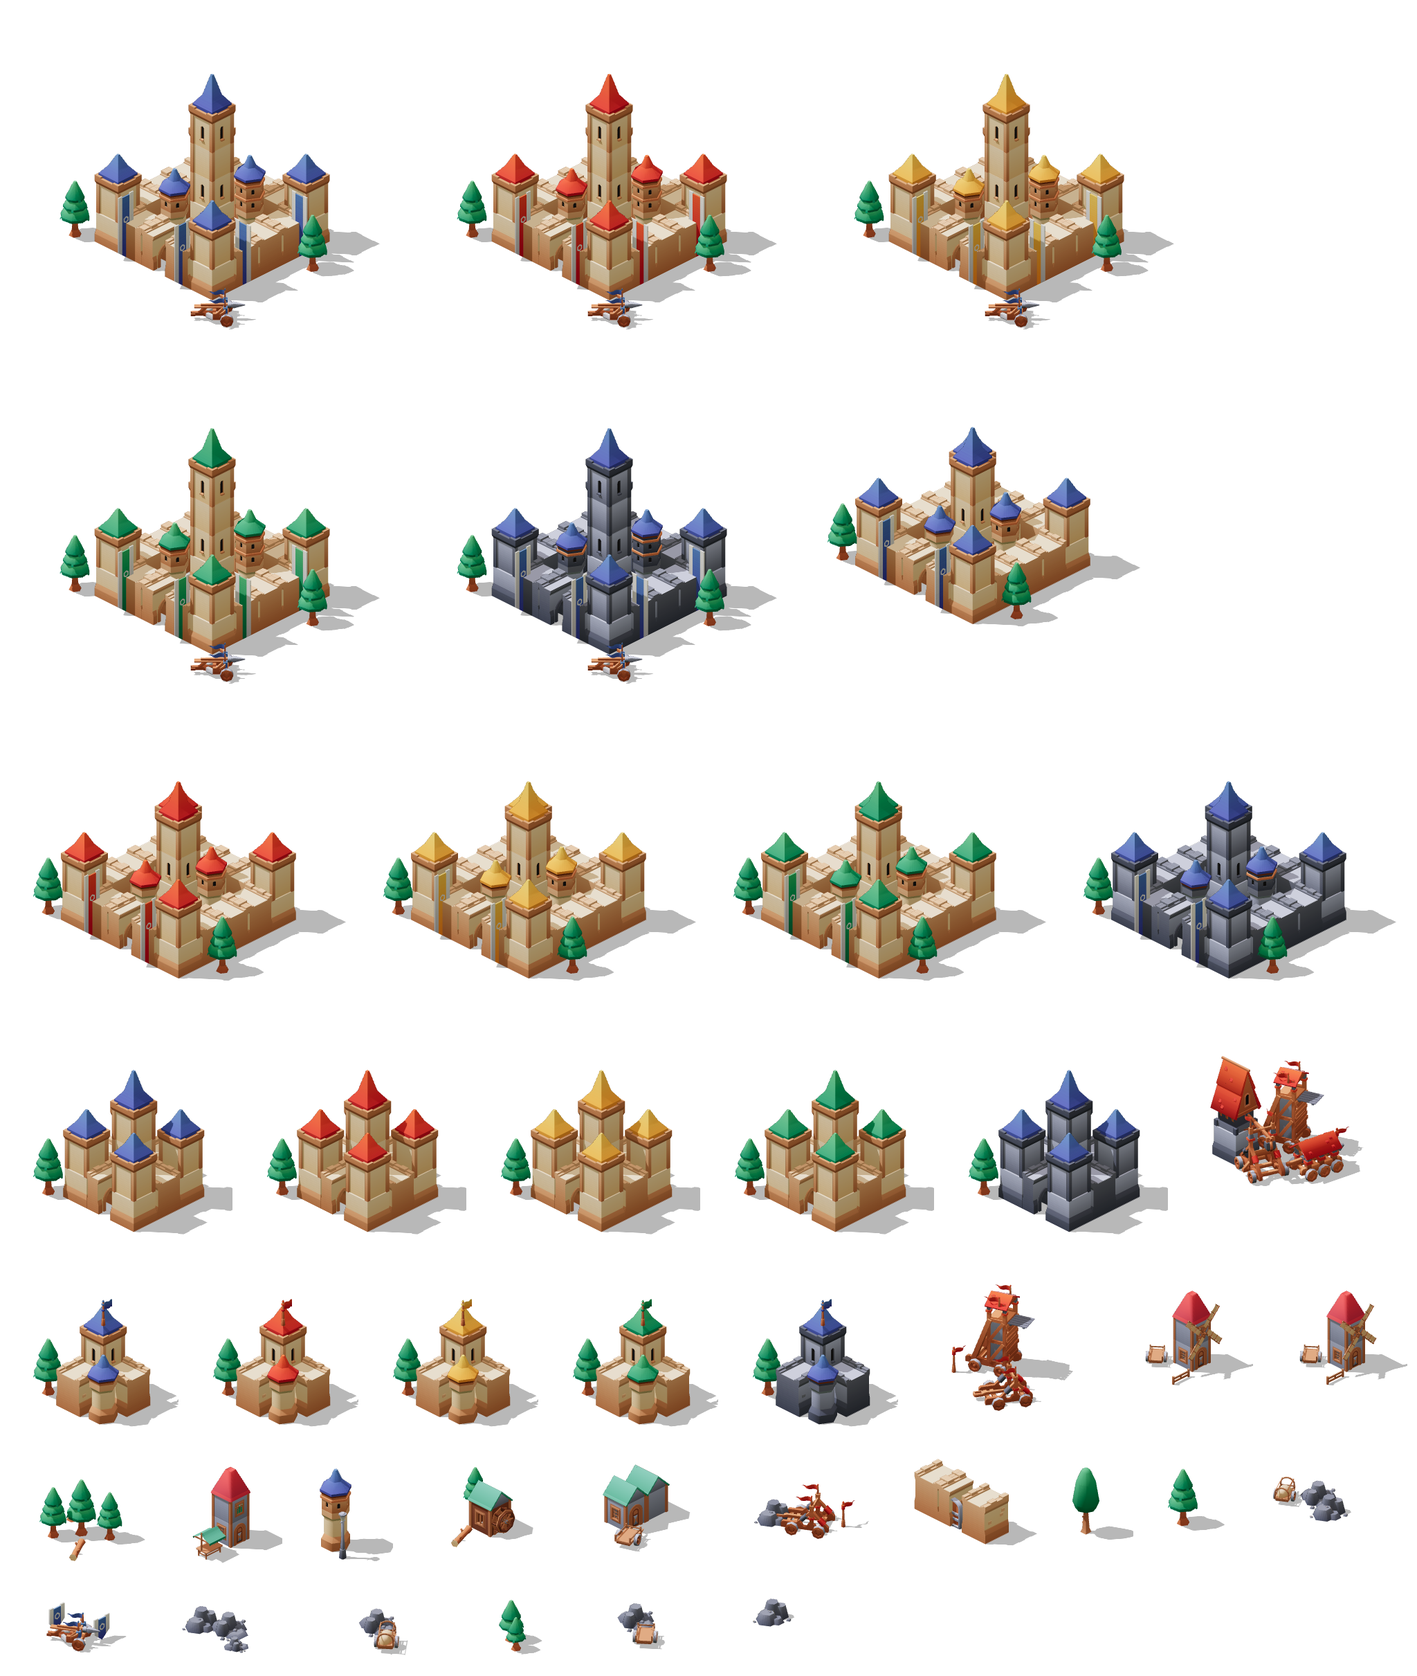
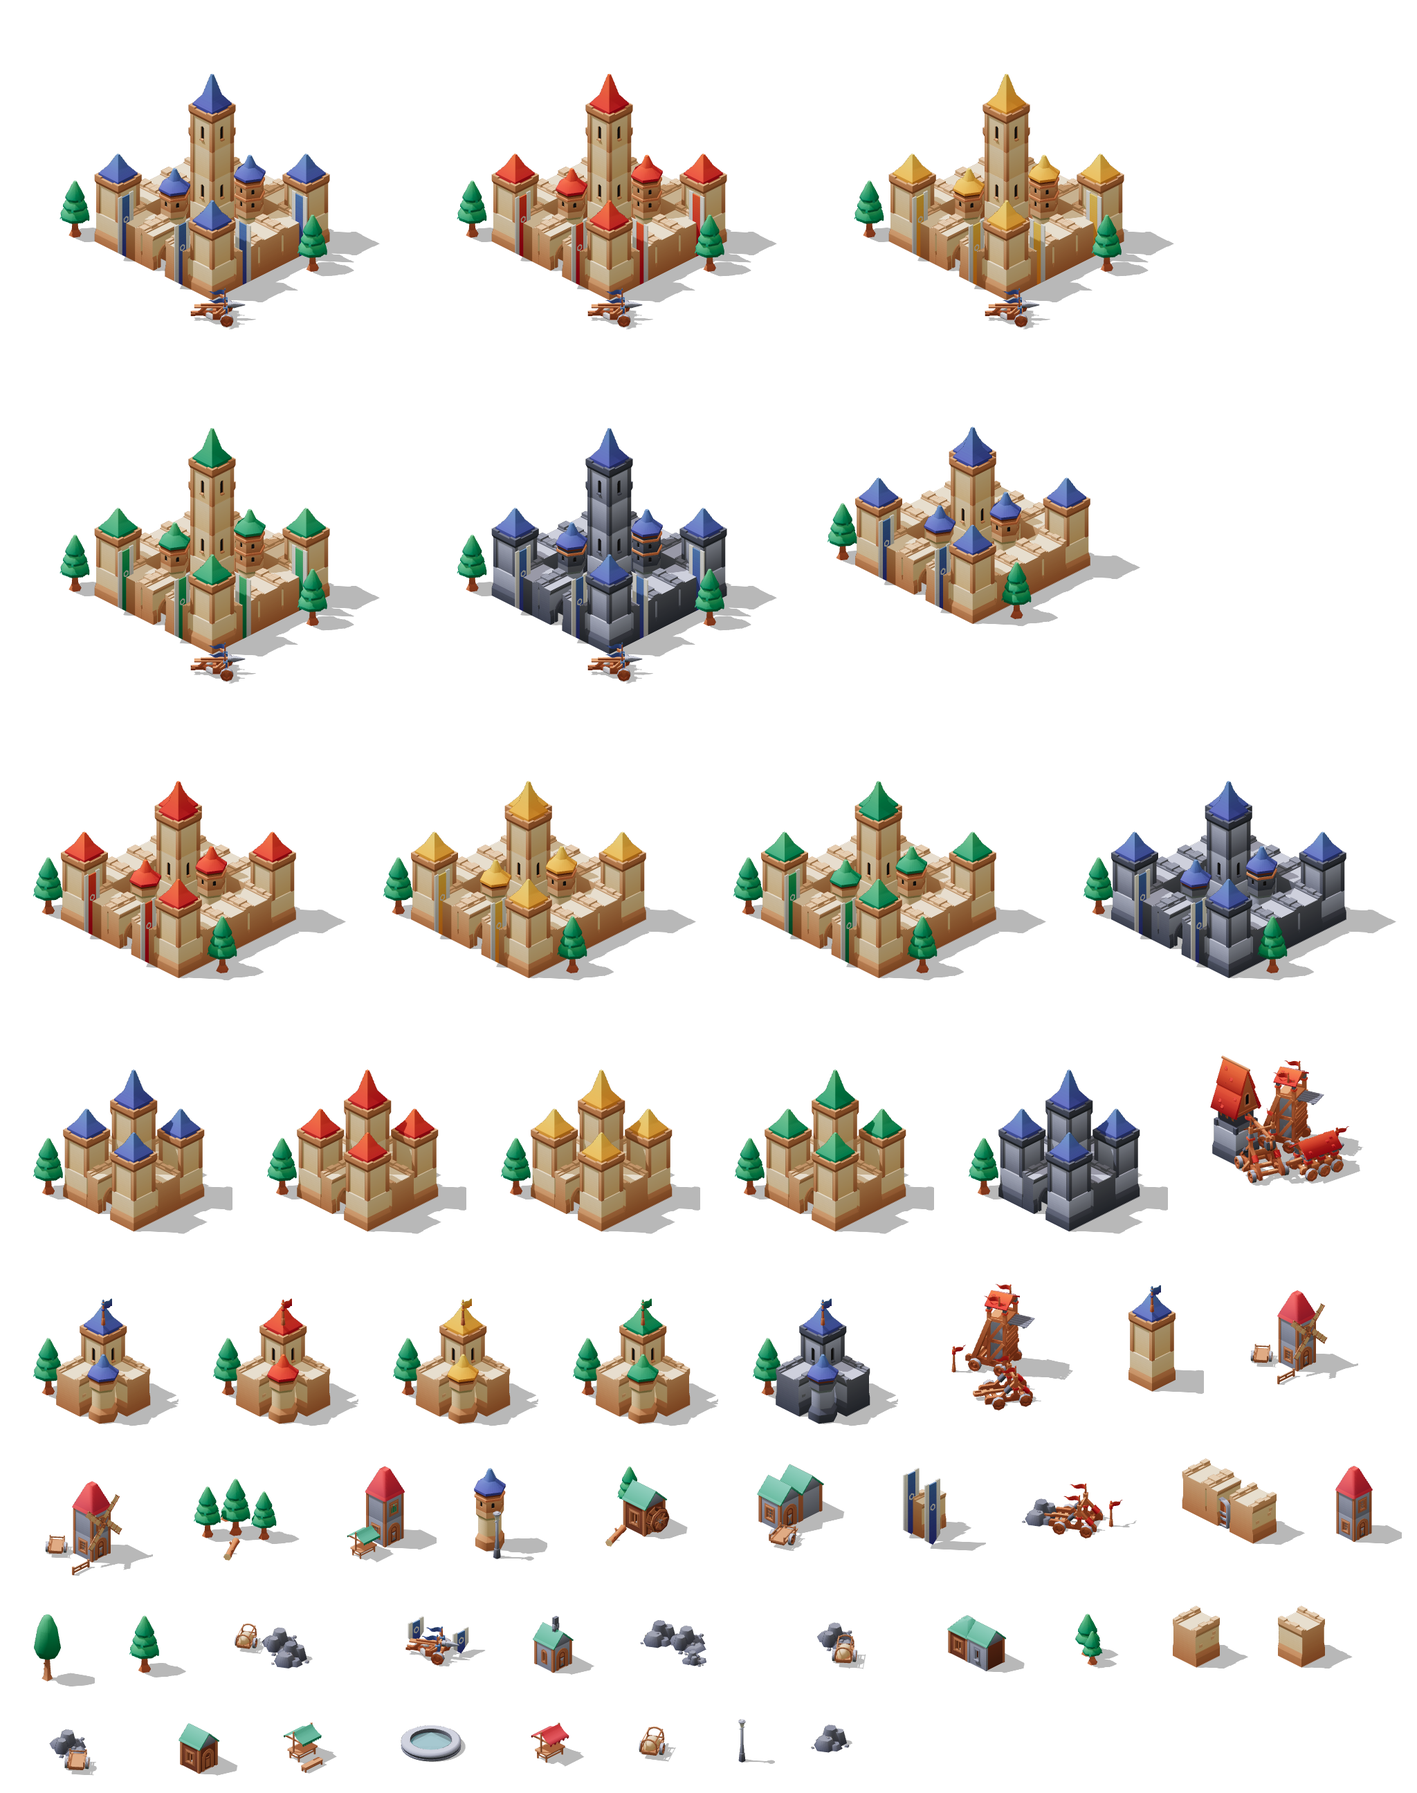
Versão 7: cidade murada e viva, HUD com ícones e janelas de pergaminho
Muralha com torres e portão (o portão é a Muralha), casas e enfeites que
aparecem conforme o castelo cresce, plantações, moradores andando pelos
caminhos. Ícones da barra e do HUD (Kenney Board Game Icons, CC0) e
janelas com textura de pergaminho (Kenney UI Pack RPG, CC0) embutidos
em icones.css.

Claude-Session: https://claude.ai/code/session_01KrXXk7vV1AZqnuUUsCCHUh

diff --git a/icones.css b/icones.css
@@ -1,0 +1,21 @@
+/* ---------- gerado: ícones (Kenney Board Game Icons, CC0) e painéis (Kenney UI Pack RPG, CC0) ---------- */
+.ico{display:inline-block;width:1em;height:1em;vertical-align:-.15em;background:linear-gradient(#fff3c4,#e9b949 55%,#b07a1c);-webkit-mask:var(--m) center/contain no-repeat;mask:var(--m) center/contain no-repeat;filter:drop-shadow(0 1px 0 rgba(60,35,5,.9)) drop-shadow(0 2px 2px rgba(0,0,0,.5))}
[19 lines of base64/hex data omitted]

diff --git a/ui.js b/ui.js
@@ -351,40 +351,75 @@ function drawMap() {
 }
 
 /* ---------------- cena: CIDADE ---------------- */
-const CITY_N = 13;
-const SLOTS = { castelo: [6.5, 6.5], academia: [2.5, 3], quartel: [6.5, 2.2], armazem: [10.5, 3], serraria: [2.2, 6.8],
-  pedreira: [10.8, 6.8], fazenda: [3, 10.5], mina: [6.8, 11], hospital: [10.5, 10.5], muralha: [11.8, 12.2] };
+const CITY_N = 13, GATE = [6.5, 12.75];
+const SLOTS = { castelo: [6.5, 6.5], academia: [3, 3], quartel: [6.5, 2.4], armazem: [10, 3], serraria: [2.4, 6.5],
+  pedreira: [10.6, 6.3], fazenda: [3, 10], mina: [4.9, 10.9], hospital: [10, 10], muralha: GATE };
 const BSPR = { fazenda: 'b_fazenda', serraria: 'b_serraria', pedreira: 'b_pedreira', mina: 'b_mina', armazem: 'b_armazem',
-  quartel: 'b_quartel', hospital: 'b_hospital', muralha: 'b_muralha', academia: 'b_academia' };
+  quartel: 'b_quartel', hospital: 'b_hospital', academia: 'b_academia' };
+// casas e enfeites: aparecem aos poucos conforme o castelo cresce
+const DECOR = [[8.6, 9.2, 'barraca1'], [4.5, 8.7, 'barraca2'], [8.4, 11.1, 'fonte'], [1.3, 1.3, 'casa1'], [11.7, 1.4, 'casa4'],
+  [4.8, 1.2, 'casa2'], [8.4, 1.2, 'casa3'], [1.2, 4.7, 'casa2'], [11.8, 4.6, 'casa1'], [1.2, 8.4, 'casa3'], [11.8, 8.4, 'casa2'],
+  [1.4, 11.7, 'casa4'], [11.6, 11.6, 'casa1'], [8.2, 4.5, 'carroca'], [4.8, 4.4, 'lampiao'], [8.6, 8.3, 'lampiao'], [5.2, 12.2, 'casa3'], [11.9, 10.3, 'casa2']];
+const FOLK = Array.from({ length: 16 }, (_, i) => ({ to: Object.keys(SLOTS)[1 + (i % 9)], sp: 9000 + (i * 1373) % 7000, ph: (i * 0.137) % 1,
+  roupa: ['#b8452f', '#3f6fb0', '#6d8f3a', '#8a5a2b', '#c9a23a', '#7a4f9a'][i % 6], off: ((i * 37) % 10) / 25 - 0.2 }));
 function drawCity() {
+  const now = Date.now();
   ground(0, 0, CITY_N, CITY_N, '#2d4f25', 'rgba(60,40,20,.5)');
-  // caminhos de terra do castelo até cada construção
-  g.lineCap = 'round';
-  for (const id in SLOTS) if (id !== 'castelo') {
-    const [a, b] = w2s(...SLOTS.castelo), [c, d] = w2s(...SLOTS[id]);
-    g.strokeStyle = 'rgba(160,120,70,.75)'; g.lineWidth = TH() * 0.55; g.beginPath(); g.moveTo(a, b); g.lineTo(c, d); g.stroke();
+  // plantações perto da fazenda
+  if (me.b.fazenda) for (const [fx, fy] of [[1.4, 10.4], [3.4, 11.9]]) {
+    diamond(fx, fy, 0.7, '#8a6a3a');
+    g.strokeStyle = '#9fbf4a'; g.lineWidth = Math.max(1, 2 * cam().z);
+    for (let k = -0.55; k <= 0.55; k += 0.18) { const [a, b] = w2s(fx - 0.6, fy + k), [c, d] = w2s(fx + 0.6, fy + k); g.beginPath(); g.moveTo(a, b); g.lineTo(c, d); g.stroke(); }
   }
+  // caminhos de terra (castelo → construções e portão)
+  g.lineCap = 'round';
+  for (const pass of [['rgba(110,80,45,.8)', 0.7], ['rgba(190,150,95,.95)', 0.5]])
+    for (const id in SLOTS) if (id !== 'castelo') {
+      const [a, b] = w2s(...SLOTS.castelo), [c, d] = w2s(...SLOTS[id]);
+      g.strokeStyle = pass[0]; g.lineWidth = TH() * pass[1]; g.beginPath(); g.moveTo(a, b); g.lineTo(c, d); g.stroke();
+    }
   if (sel && sel.b) diamond(...SLOTS[sel.b], sel.b === 'castelo' ? 2.2 : 1.2, 'rgba(255,255,255,.2)', '#ffe08a');
   const objs = [];
-  for (let x = -4; x < CITY_N + 4; x++) for (let y = -4; y < CITY_N + 4; y++) {
-    const inside = x >= 0 && y >= 0 && x < CITY_N && y < CITY_N, h = hash(x + 99, y + 7);
-    const nearSlot = Object.values(SLOTS).some(([a, b]) => Math.abs(a - x - 0.5) < 2 && Math.abs(b - y - 0.5) < 2);
-    if (!nearSlot && (inside ? h < 0.08 : h < 0.55)) objs.push({ d: x + y, f: () => sprite(['arvore', 'arvore2', 'arvore3', 'arvore', 'rocha'][Math.floor(hash(y, x + 3) * 5)], x + 0.5, y + 0.5, 1.6) });
+  // floresta fora da muralha
+  for (let x = -5; x < CITY_N + 5; x++) for (let y = -5; y < CITY_N + 5; y++) {
+    const inside = x >= 0 && y >= 0 && x < CITY_N && y < CITY_N;
+    if (!inside && hash(x + 99, y + 7) < 0.6) objs.push({ d: x + y, f: () => sprite(['arvore', 'arvore2', 'arvore3', 'arvore', 'rocha'][Math.floor(hash(y, x + 3) * 5)], x + 0.5, y + 0.5, 1.5) });
   }
-  for (const id in SLOTS) objs.push({ d: SLOTS[id][0] + SLOTS[id][1], f: () => {
+  // muralha em volta (segmentos a cada ~0,65 tile), torres nos cantos
+  const e0 = 0.25, e1 = CITY_N - 0.25, st = 0.65;
+  for (let t = e0 + st; t < e1 - 0.3; t += st) {
+    objs.push({ d: t + e0, f: () => sprite('muro_x', t, e0, 1.55) });          // fundo
+    objs.push({ d: e0 + t, f: () => sprite('muro_z', e0, t, 1.55) });          // esquerda
+    objs.push({ d: e1 + t, f: () => sprite('muro_z', e1, t, 1.55) });          // direita (frente)
+    if (Math.abs(t - GATE[0]) > 0.7) objs.push({ d: t + e1, f: () => sprite('muro_x', t, e1, 1.55) }); // frente, com vão do portão
+  }
+  for (const [x, y] of [[e0, e0], [e1, e0], [e0, e1], [e1, e1]]) objs.push({ d: x + y + 0.1, f: () => sprite('muro_torre', x, y, 1.55) });
+  objs.push({ d: GATE[0] + GATE[1] + 0.1, f: () => sprite('muro_portao', GATE[0], GATE[1], 1.55) });
+  // casas e enfeites
+  const nDec = Math.min(DECOR.length, 3 + me.b.castelo * 2);
+  for (const [x, y, n] of DECOR.slice(0, nDec)) objs.push({ d: x + y, f: () => sprite(n, x, y, n.startsWith('casa') ? 1.7 : 1.6) });
+  // construções
+  for (const id in SLOTS) if (id !== 'muralha') objs.push({ d: SLOTS[id][0] + SLOTS[id][1], f: () => {
     const [x, y] = SLOTS[id];
     if (id === 'castelo') sprite(citySprite(me), x, y, 1.3);
     else if (me.b[id]) sprite(BSPR[id], x, y, 1.55);
     else { diamond(x, y, 0.8, 'rgba(120,85,45,.55)', 'rgba(233,185,73,.6)', [5, 4]); sprite('rocha', x - 0.4, y + 0.3, 2.6); }
   } });
+  // moradores andando pelos caminhos (vai e volta)
+  for (const f of FOLK) {
+    const [ax, ay] = SLOTS.castelo, [bx, by] = SLOTS[f.to];
+    let p = ((now / f.sp) + f.ph) % 2; p = p > 1 ? 2 - p : p; p = 0.25 + p * 0.6;
+    const x = ax + (bx - ax) * p + f.off, y = ay + (by - ay) * p - f.off;
+    objs.push({ d: x + y, f: () => person(x, y, f.roupa, now / 120 + f.ph * 10) });
+  }
   objs.sort((a, b) => a.d - b.d);
   for (const o of objs) o.f();
   // selos: nível, obra, pode evoluir
   for (const id in SLOTS) {
     const [x, y] = SLOTS[id], [sx, sy] = w2s(x, y), lv = me.b[id];
-    const oy = sy + TH() * (id === 'castelo' ? 1.9 : 0.9);
+    const oy = sy + TH() * (id === 'castelo' ? 1.9 : id === 'muralha' ? 0.5 : 0.9);
     if (me.bq && me.bq.id === id) {
-      const p = Math.min(1, (Date.now() - me.bq.start) / (me.bq.end - me.bq.start));
+      const p = Math.min(1, (now - me.bq.start) / (me.bq.end - me.bq.start));
       badge(sx, sy - TH() * 2.2, '🔨', '#c98a1c');
       g.fillStyle = 'rgba(0,0,0,.6)'; roundRect(sx - 30, oy + 12, 60, 7, 3); g.fill();
       g.fillStyle = '#6ee06a'; roundRect(sx - 30, oy + 12, 60 * p, 7, 3); g.fill();
@@ -392,6 +427,14 @@ function drawCity() {
     if (lv) plate(sx, oy, lv, B[id].n, '#f1e6d0'); else plate(sx, oy, '+', B[id].n + (canBuild(me, id) ? ' 🔒' : ''), '#c9b99a');
   }
   $('#coords').textContent = '';
+}
+// bonequinho: sombra, corpo com a cor da roupa, cabeça; balança ao andar
+function person(x, y, roupa, t) {
+  const [sx, sy] = w2s(x, y), k = cam().z, b = Math.abs(Math.sin(t)) * 2 * k;
+  if (sx < -20 || sx > W + 20 || sy < -20 || sy > H + 20) return;
+  g.fillStyle = 'rgba(0,0,0,.25)'; g.beginPath(); g.ellipse(sx, sy, 5 * k, 2.5 * k, 0, 0, 7); g.fill();
+  g.fillStyle = roupa; roundRect(sx - 3.5 * k, sy - 13 * k - b, 7 * k, 10 * k, 3 * k); g.fill();
+  g.fillStyle = '#f0c9a0'; g.beginPath(); g.arc(sx, sy - 16 * k - b, 3.2 * k, 0, 7); g.fill();
 }
 
 /* ---------------- toque / arrasto / zoom ---------------- */
@@ -497,11 +540,11 @@ function renderSheet() {
 /* ---------------- HUD ---------------- */
 function renderTop() {
   const c = cap(me), now = Date.now();
-  $('#resbar').innerHTML = RES.map(r => `<div class="r ${me.res[r] >= c ? 'full' : ''}"><i>${RI[r]}</i><b>${fmt(me.res[r])}</b></div>`).join('') +
-    `<div class="r gem"><i>💎</i><b>${fmt(me.gemas)}</b></div>`;
-  $('#perfil').innerHTML = `<div class="av">👑</div><div><div class="pw">⚡ ${fmt(power(me))}</div><div class="rk">#${rankOf(me)} · ${alTag(me) || 'sem aliança'}${shielded(me, now) ? ` · 🛡<span class="cd" data-end="${me.escudo}">${ftime(me.escudo - now)}</span>` : ''}</div></div>`;
+  $('#resbar').innerHTML = RES.map(r => `<div class="r ${me.res[r] >= c ? 'full' : ''}"><i class="ico ico-${r}"></i><b>${fmt(me.res[r])}</b></div>`).join('') +
+    `<div class="r gem"><i class="ico ico-gema"></i><b>${fmt(me.gemas)}</b></div>`;
+  $('#perfil').innerHTML = `<div class="av"><i class="ico ico-coroa"></i><span class="avl">${me.b.castelo}</span></div><div><div class="pw">Poder ${fmt(power(me))}</div><div class="rk">#${rankOf(me)} · ${alTag(me) || 'sem aliança'}${shielded(me, now) ? ` · 🛡<span class="cd" data-end="${me.escudo}">${ftime(me.escudo - now)}</span>` : ''}</div></div>`;
   const q = Q[S.q];
-  $('#quest').innerHTML = q ? `<b>🎯</b><span>${q.t}</span>${q.ok() ? '<em>Resgatar</em>' : ''}` : '<b>👑</b><span>Missões concluídas</span>';
+  $('#quest').innerHTML = q ? `<b><i class="ico ico-missoes"></i></b><span>${q.t}</span>${q.ok() ? '<em>Resgatar</em>' : ''}` : '<b>👑</b><span>Missões concluídas</span>';
   $('#quest').classList.toggle('ok', !!(q && q.ok()));
   const ms = marchesOf(me);
   $('#marchas').innerHTML = `<div class="mh" data-act="marchas">▾ Marchando ${ms.length}/${maxMarches(me)}</div>` + ms.map(m => {
@@ -514,7 +557,7 @@ function renderTop() {
   if (inc) $('#alerta').innerHTML = `⚠ Ataque de ${esc(kById(inc.k).nome)} em <b class="cd" data-end="${inc.end}">${ftime(inc.end - now)}</b>`;
   const n = S.feed[0] || S.rel[0];
   $('#news').innerHTML = n ? (S.feed[0] ? `<b>Aliança:</b> ${esc(n.n)} ${n.txt}` : `<b>Relatório:</b> ${n.titulo}`) : '<b>Dica:</b> toque nas construções para evoluir.';
-  $('#tgl').innerHTML = view === 'cidade' ? '<b>🗺</b>Mapa' : '<b>🏰</b>Cidade';
+  $('#tgl').innerHTML = view === 'cidade' ? '<b><i class="ico ico-mapa"></i></b>Mapa' : '<b><i class="ico ico-cidade"></i></b>Cidade';
   $('#qdot').hidden = !(Q[S.q] && Q[S.q].ok());
 }
 function timers() {

diff --git a/style.css b/style.css
@@ -15,14 +15,15 @@ button{font:inherit;color:inherit;cursor:pointer}
   background:linear-gradient(rgba(15,10,6,.85),rgba(15,10,6,0));pointer-events:none}
 #resbar{display:flex;gap:5px;justify-content:flex-end;flex-wrap:wrap}
 .r{display:flex;align-items:center;gap:4px;background:rgba(0,0,0,.55);border:1px solid rgba(233,185,73,.35);border-radius:14px;padding:2px 9px 2px 4px;font-size:13px;font-variant-numeric:tabular-nums}
-.r i{font-style:normal;font-size:15px}
+.r .ico{font-size:17px}
 .r b{font-weight:700}
 .r.full b{color:var(--bad)}
 .r.gem{border-color:#5fa8e0}
 
 #hudL{position:fixed;left:8px;top:calc(max(6px,env(safe-area-inset-top)) + 36px);z-index:5;display:flex;flex-direction:column;gap:6px;width:min(58vw,250px)}
 #perfil{display:flex;gap:8px;align-items:center;background:var(--glass);border:1px solid var(--gold2);border-radius:12px;padding:5px 8px}
-#perfil .av{width:40px;height:40px;border-radius:9px;display:grid;place-items:center;font-size:24px;background:linear-gradient(#5a3d1c,#2a1b0c);border:2px solid var(--gold)}
+#perfil .av{position:relative;width:44px;height:44px;border-radius:10px;display:grid;place-items:center;font-size:28px;background:radial-gradient(#7a5424,#2a1b0c);border:2px solid var(--gold)}
+#perfil .avl{position:absolute;right:-6px;bottom:-6px;min-width:20px;height:20px;border-radius:10px;background:#e9dcc0;color:#3a2412;font:800 12px/20px system-ui;text-align:center;border:2px solid #6b4a2b}
 #perfil .pw{font-weight:800;color:var(--gold);font-variant-numeric:tabular-nums}
 #perfil .rk{font-size:11.5px;color:var(--mut)}
 #quest{display:flex;gap:6px;align-items:center;text-align:left;background:var(--glass);border:1px solid var(--line);border-radius:10px;padding:5px 8px;font-size:12px;line-height:1.25}
@@ -126,3 +127,27 @@ h3{margin:16px 0 8px;font:700 15px 'Cinzel',Georgia,serif;color:var(--gold)}
 #toast div{background:#1c150cf0;border:1px solid var(--gold2);border-radius:10px;padding:8px 12px;text-align:center;animation:tin .25s}
 @keyframes tin{from{opacity:0;transform:translateY(-8px)}}
 @media (prefers-reduced-motion:reduce){#alerta,#quest.ok,#toast div{animation:none}}
+
+/* ---------- janelas de pergaminho ---------- */
+#pbody,#sheet,#modal .box{--txt:#3b2a17;--mut:#7a6245;--panel:#ead9b2;--panel2:#f4e7c9;--line:#c7ab7c;--gold:#8a5a10;--bad:#b2351f;--good:#2f7d2c;color:var(--txt)}
+#pbody{background:#e3cfa3;border:14px solid transparent;border-image:var(--pan-beige) 14 fill / 14px round;border-top:0;border-radius:0;box-shadow:0 8px 30px rgba(0,0,0,.6)}
+#panel header{border:12px solid transparent;border-image:var(--pan-brown) 14 fill / 12px round;border-radius:0;padding:2px 4px}
+#panel header h2{color:#ffe7a6;text-shadow:0 2px 0 #3a2410}
+#sheet{background:#e3cfa3;border:14px solid transparent;border-image:var(--pan-beige) 14 fill / 14px round;border-radius:0;padding:4px}
+#modal .box{background:#e3cfa3;border:14px solid transparent;border-image:var(--pan-beige) 14 fill / 14px round;border-radius:0}
+#pbody .card,#modal .card{background:#f1e2c0;border:10px solid transparent;border-image:var(--pan-inset) 12 fill / 10px round;border-radius:0;padding:4px}
+#pbody .queue,#sheet .queue{background:#f8e9b8}
+#sheet .card{background:transparent}
+#pbody h3,#sheet h3{color:#7a4a10;text-shadow:none}
+#pbody .tag,#sheet .tag,#modal .tag{background:rgba(90,60,20,.12);color:#6b5436}
+#pbody .tb td{border-bottom-color:rgba(120,90,50,.25)}
+#pbody .meRow td{color:#7a4a10;background:rgba(233,185,73,.25)}
+#pbody .ic,#sheet .ic{background:rgba(90,60,20,.1);border-color:rgba(120,90,50,.35)}
+#pbody .bar,#sheet .bar{background:rgba(60,40,20,.2)}
+.x{background:#8a5a2b;color:#fff3c4;border-color:#5a3a18}
+#nav button .ico{font-size:30px}
+#nav .big .ico{font-size:38px}
+.rb b .ico{font-size:30px}
+#tools .ico{font-size:22px}
+#quest .ico{font-size:18px}
+#pbody [style*="color"],#sheet [style*="color"],#modal [style*="color"]{filter:brightness(.55) saturate(1.8)}

diff --git a/index.html b/index.html
@@ -7,6 +7,7 @@
 <meta name="description" content="Construa seu reino, treine tropas e conquiste o mapa.">
 <meta name="theme-color" content="#16110b">
 <link rel="stylesheet" href="https://fonts.googleapis.com/css2?family=Cinzel:wght@700&display=swap">
+<link rel="stylesheet" href="icones.css">
 <link rel="stylesheet" href="style.css">
 </head>
 <body>
@@ -21,8 +22,8 @@
 </div>
 
 <div id="hudR">
-  <button class="rb" data-act="panel" data-p="missoes"><b>📜</b><span>Missões</span><i id="qdot" hidden></i></button>
-  <button class="rb" data-act="shield"><b>🛡</b><span>Escudo</span></button>
+  <button class="rb" data-act="panel" data-p="missoes"><b><i class="ico ico-missoes"></i></b><span>Missões</span><i id="qdot" hidden></i></button>
+  <button class="rb" data-act="shield"><b><i class="ico ico-escudo"></i></b><span>Escudo</span></button>
 </div>
 
 <div id="alerta" hidden></div>
@@ -30,7 +31,7 @@
 <div id="tools">
   <button data-act="zoom" data-v="1.2" aria-label="Aproximar">＋</button>
   <button data-act="zoom" data-v="0.83" aria-label="Afastar">－</button>
-  <button data-act="home" aria-label="Centralizar">🎯</button>
+  <button data-act="home" aria-label="Centralizar"><i class="ico ico-alvo"></i></button>
 </div>
 <div id="coords"></div>
 
@@ -38,11 +39,11 @@
 <div id="sheet" class="card" hidden></div>
 
 <nav id="nav">
-  <button data-act="panel" data-p="exercito"><b>⚔</b>Exército</button>
-  <button data-act="panel" data-p="pesquisa"><b>📜</b>Pesquisa</button>
-  <button data-act="panel" data-p="alianca"><b>🤝</b>Aliança</button>
-  <button data-act="panel" data-p="ranking"><b>🏆</b>Ranking</button>
-  <button id="tgl" class="big" data-act="toggle"><b>🗺</b>Mapa</button>
+  <button data-act="panel" data-p="exercito"><b><i class="ico ico-exercito"></i></b>Exército</button>
+  <button data-act="panel" data-p="pesquisa"><b><i class="ico ico-pesquisa"></i></b>Pesquisa</button>
+  <button data-act="panel" data-p="alianca"><b><i class="ico ico-alianca"></i></b>Aliança</button>
+  <button data-act="panel" data-p="ranking"><b><i class="ico ico-ranking"></i></b>Ranking</button>
+  <button id="tgl" class="big" data-act="toggle"><b><i class="ico ico-mapa"></i></b>Mapa</button>
 </nav>
 
 <section id="panel" hidden>

diff --git a/tools/sprites/pecas.js b/tools/sprites/pecas.js
@@ -77,3 +77,18 @@ out.b_hospital = [...house(0, 0, { w: 'wall', door: 'wall-door', win: 'wall-wind
 out.b_muralha = [{ n: 'wall', x: -1 }, { n: 'wall-doorway', x: 0 }, { n: 'wall', x: 1 }, { n: 'gate', x: 0, z: 0.35, r: 90 }];
 out.b_academia = [{ st: ['tower-hexagon-base', 'tower-hexagon-mid', 'tower-hexagon-roof'] }, { k: 'town', n: 'lantern', x: 0.7, z: 0.4 }];
 module.exports = out;
+
+// ---- cidade cheia: muralha, casas, praça ----
+out.muro_x = [{ n: 'wall', r: 0 }];
+out.muro_z = [{ n: 'wall', r: 90 }];
+out.muro_torre = [{ st: ['tower-square-base', 'tower-square-mid', 'tower-square-top-roof'] }, { n: 'flag', x: 0.3, z: 0.3, y: 2.62 }];
+out.muro_portao = [{ n: 'wall-doorway', r: 0 }, { n: 'gate', z: 0.3, r: 90 }, { n: 'flag-banner-long', x: -0.45, z: 0.55 }, { n: 'flag-banner-long', x: 0.45, z: 0.55 }];
+out.casa1 = [...house(0, 0, { roof: 'roof-gable', s: 0.8 })];
+out.casa2 = [...house(0, 0, { w: 'wall', door: 'wall-door', win: 'wall-window-shutters', roof: 'roof-high-point', floors: 2, s: 0.75 })];
+out.casa3 = [...house(0, 0, { w: 'wall', door: 'wall-door', win: 'wall-window-round', roof: 'roof-gable', s: 0.8 }), { k: 'town', n: 'chimney', x: -0.1, y: 1.05, s: 0.6 }];
+out.casa4 = [...house(0, 0, { roof: 'roof-point', s: 0.8 }), ...house(0.8, 0, { w: 'wall-wood', door: 'wall-wood', win: 'wall-wood-window-small', roof: 'roof-gable', s: 0.8 })];
+out.barraca1 = [{ k: 'town', n: 'stall-red', s: 0.8 }];
+out.barraca2 = [{ k: 'town', n: 'stall-green', s: 0.8 }, { k: 'town', n: 'stall-bench', x: 0.7, z: 0.3, s: 0.8 }];
+out.fonte = [{ k: 'town', n: 'fountain-round', s: 0.9 }, { k: 'town', n: 'fountain-center', s: 0.9 }];
+out.lampiao = [{ k: 'town', n: 'lantern', s: 0.9 }];
+out.carroca = [{ k: 'town', n: 'cart-high', r: 30, s: 0.8 }];

diff --git a/game.js b/game.js
@@ -10,7 +10,7 @@
      No futuro isso roda num servidor e os bots são trocados por pessoas.
    ===================================================================== */
 
-const VERSAO = 6; // igual ao versao.json — sobe a cada entrega; o app baixa sozinho
+const VERSAO = 7; // igual ao versao.json — sobe a cada entrega; o app baixa sozinho
 const SAVE_KEY = 'coroa_save_v2';
 const MAXLV = 20, RMAX = 10, N = 60, CX = 30, CY = 30, NBOTS = 24;
 const RES = ['comida', 'madeira', 'pedra', 'ouro'];
